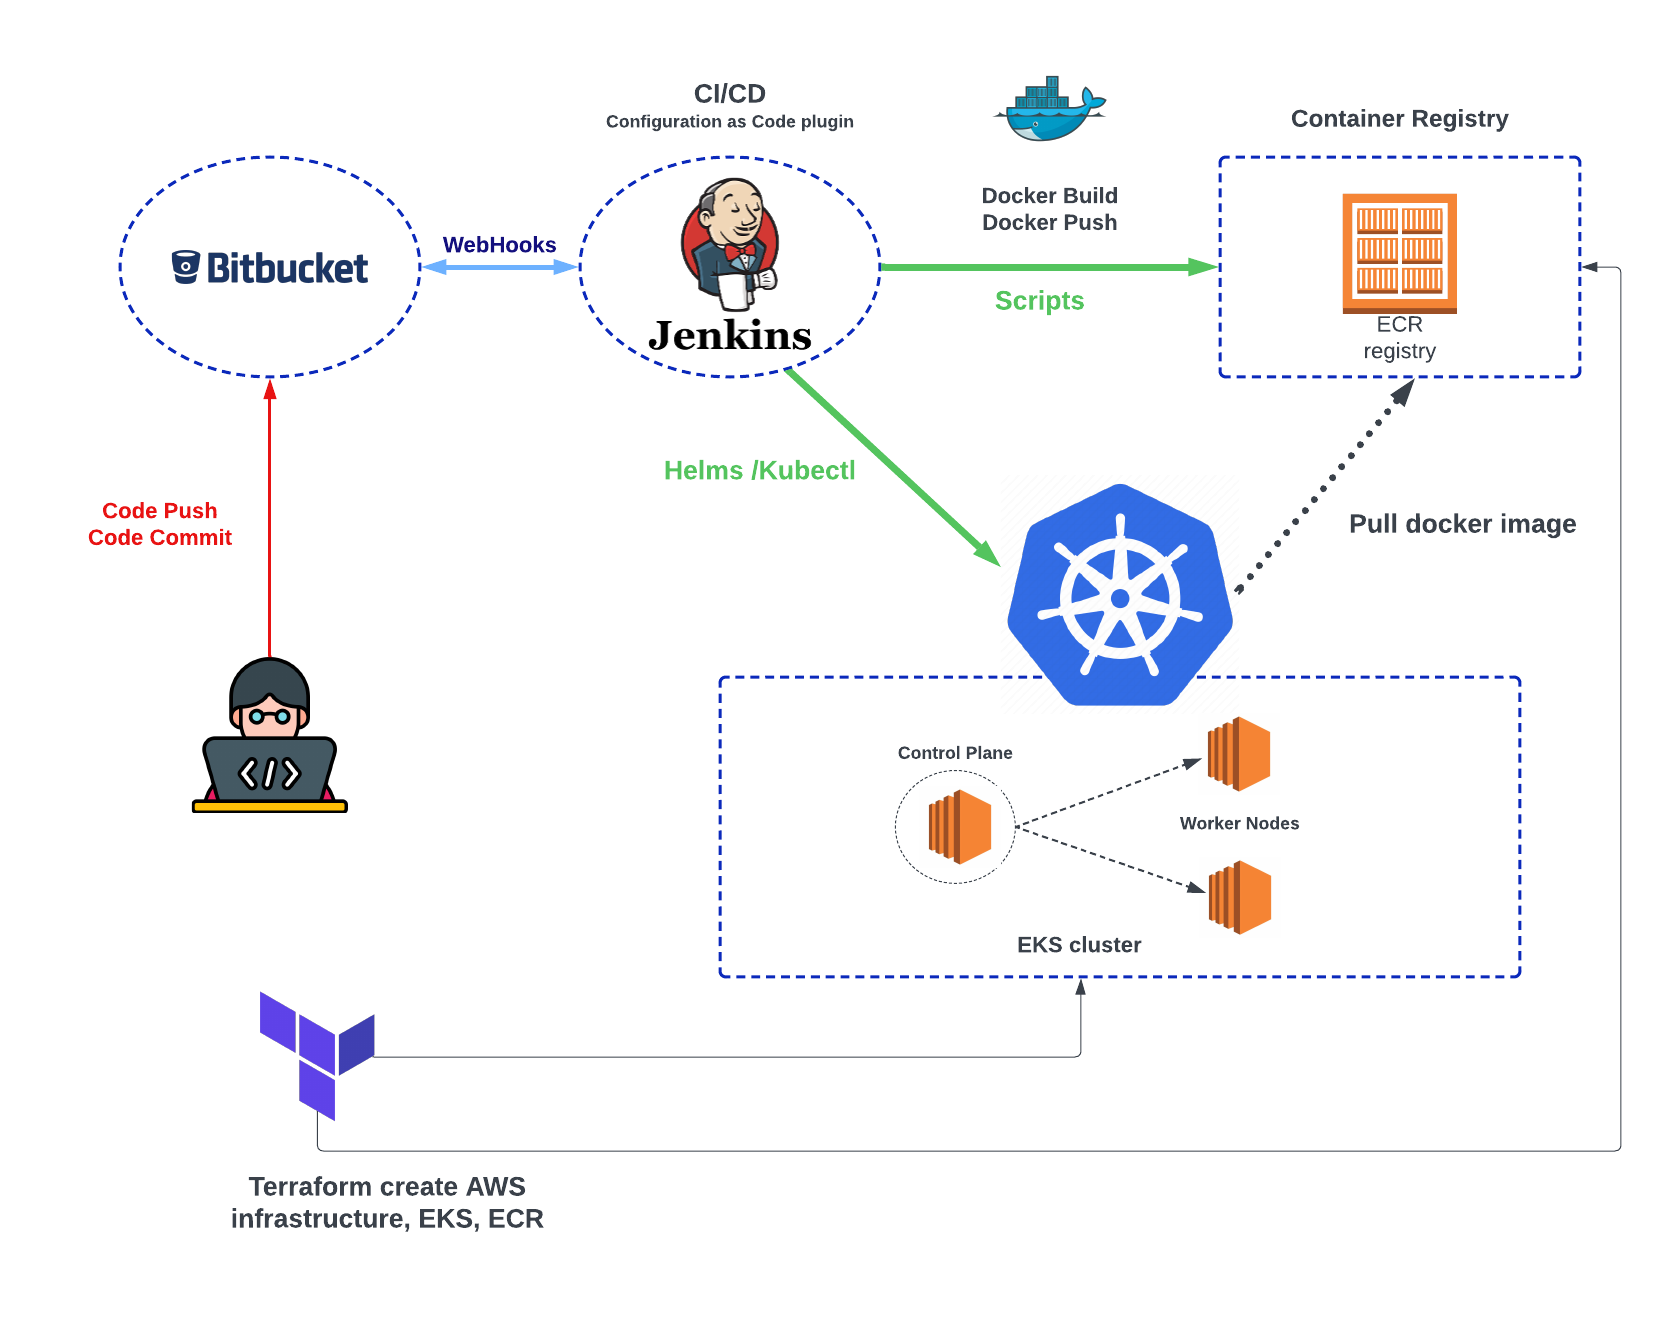
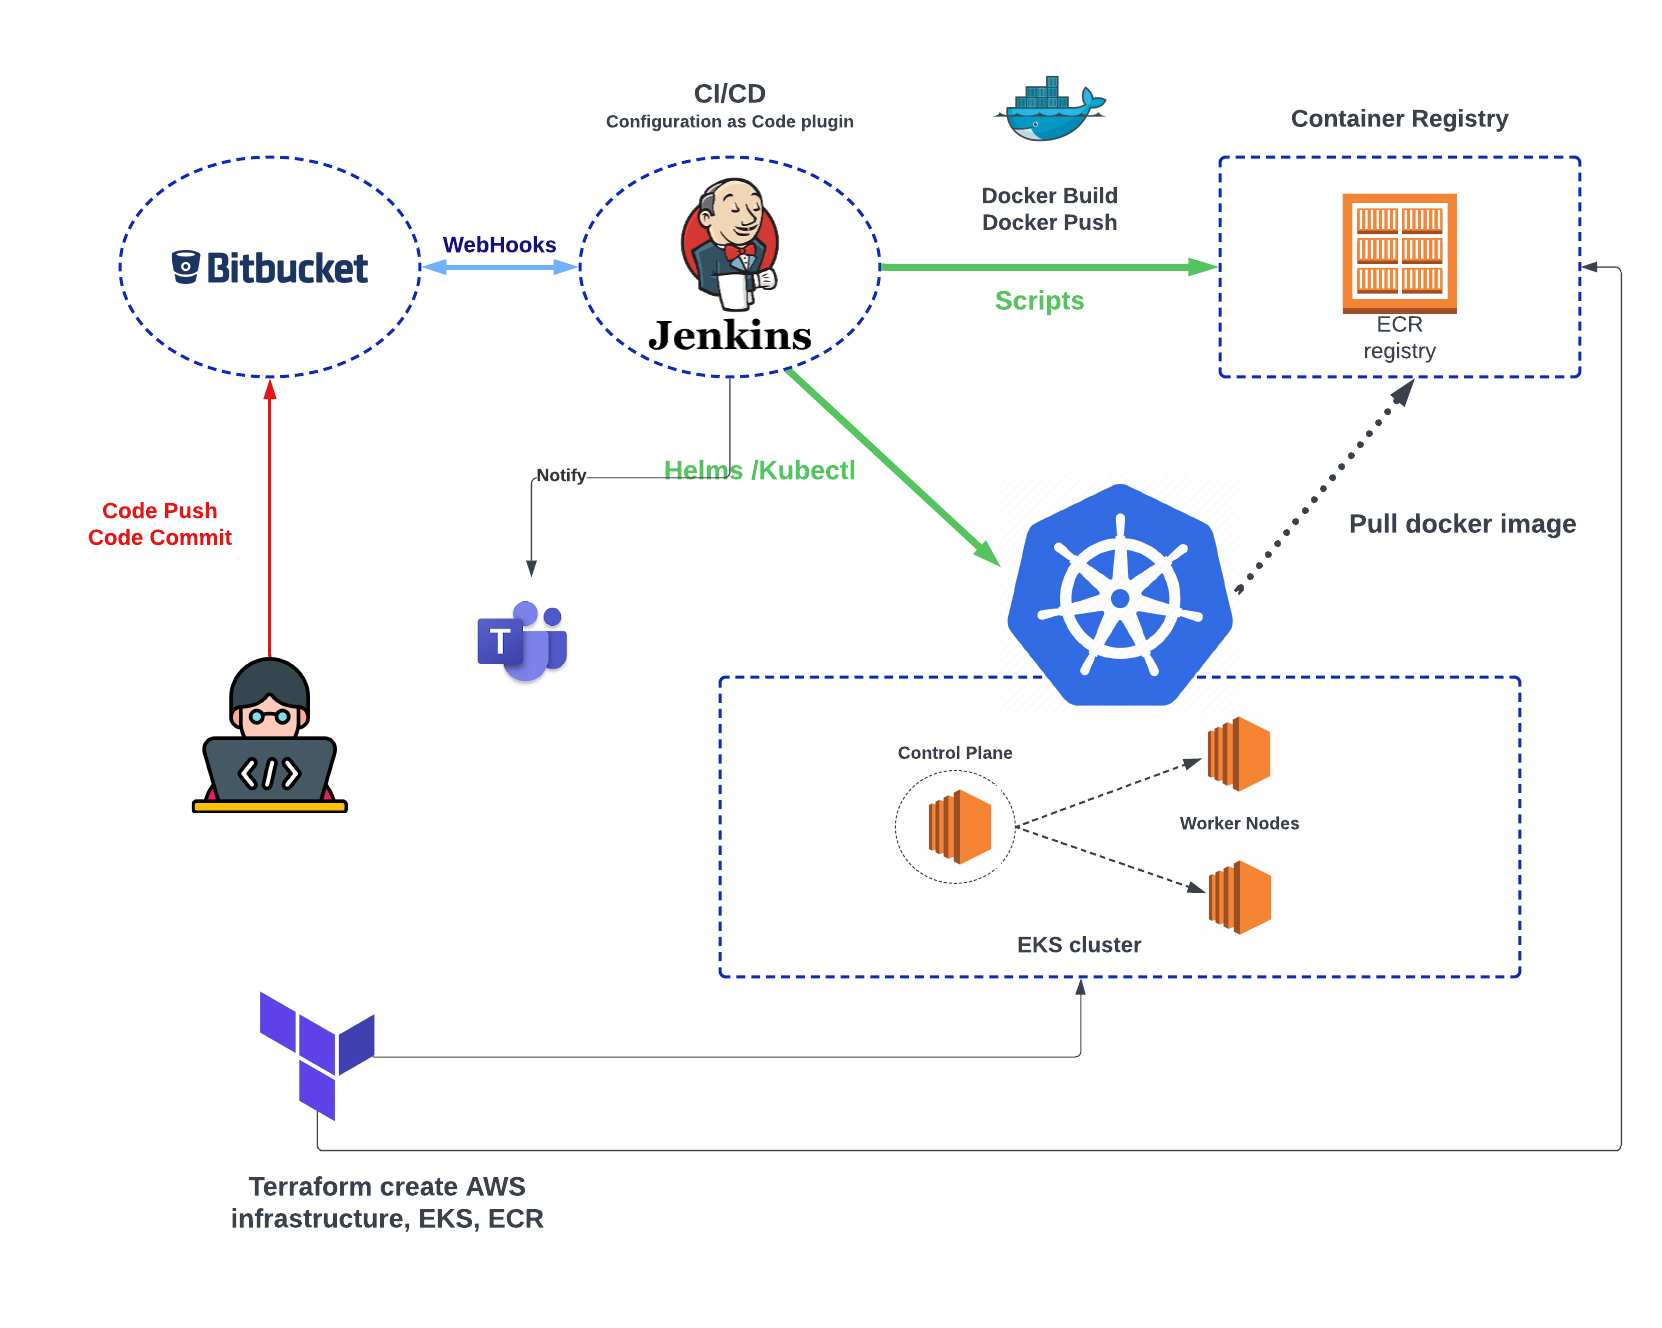
add guideline

Changed region(s): [[0.2762, 0.4322, 0.3375, 0.5248], [0.3069, 0.3396, 0.3682, 0.3705]]

diff --git a/README.md b/README.md
@@ -1,1 +1,44 @@
-elsa-lab
+- I use terraform to create AWS infrastructure such as VPC, EKS, ECR. Please see the image CI_CDPipeline.png to know how the CICD works. We can deploy Banzaicloud Vault to store secret and sensitive information, don't have time so don't do here. 
+- Jenkins use master-slave architecture and configuration as code. Packer build AMIs for Jenkins slave agent.
+- I don't have time to recode the hackathon app so I skip it to deploy.
+- Create 3 repos and store hackerthon, configuration-as-code-jenkins-jobdsl, jenkins-share-libraries on Bitbucket.
+Build infrastructure and deploy guide
+1. Local Environment Setup:
+- Terraform and AWS CLI, git, kustomize
+- Create AWS IAM user and configure AWS on local 
+- Depend on you local setup by yourself
+2. Deploy AWS VPC, EKS and related features.
+- cd Terraform. Run from 0_remote_state -> 1_ecr -> 2_eks. Read readme.md to know how to run Terraform.
+- Run the below command to configure the EKS Cluster
+ aws eks update-kubeconfig --region ap-southeast-1 --name elsa-lab-cluster
+3. Deploy Cert manager and let's enscrypt
+-  cd cert-manager, run the command in the values.yaml file
+- run command to configure, insert the real value before run the command. 
+kubeclt apply -f clusterissuer-cert-wildcard.yaml
+4. Deploy nginx ingress controller
+- cd ingress-nginx, modify the values on the values file.
+- run the command noted on that file
+5. Deploy Jenkins and build AMIs for jenkins agents
+- cd configuration-as-code-jenkins, run command 
+kubectl kustomize secrets
+- run the notes command on the top of file values-elsa-5.1.26.yaml
+- run command to apply rbac
+- cd jenkins-docker-templates run the command on readme.md 
+  kubectl apply -f jenkins-rbac.yml
+- setup Jenkins publics URL, point to the aws loadbalancer, ( get this from nginx service)
+6. Deploy prometheus stack, Loki stack for monitoring metrics and application logging
+cd to prometheus-stack folder and loki-stack foler and run commands that noted in the value files.
+7. Deploy prom-msteams to notify MS teams
+- cd prom-msteams and add the values in real.
+-  run the command noted on value file.
+cd templates and run command below to create secret
+kubectl apply -f secret.yaml
+8. Setup pipeline job
+- Go to Jenkins and run super-seed
+9. Deploy application
+The hackathon foler has docker file in the docker folder, helm chart to deploy application in the helm foler, Jenkins file for the pipeline use to build, push image to ECR and deploy via script store on jenkins-share-libraries.
+It auto trigger the code when developer commit and deploy the apps. We also run it manually.
+Because we don't use Vault to store secret so run the command to create secret for apps env. Create more secret as require for the apps same way.
+kubectl kustomize Secret
+10. Use prometheus and loki promtail to monitor application, systems performance and application logs. Can deploy EFK to store logging.
+

diff --git a/Terraform/2_eks/README.md b/Terraform/2_eks/README.md
@@ -1,0 +1,13 @@
+<!-- BEGIN_TF_DOCS -->
+# Terraform remote state
+
+This module deploys AWS infrastructure to store Terraform remote state in S3 bucket and lock Terraform execution in DynamoDB table.
+
+## Deployment
+
+```sh
+terraform init
+terraform plan -out state.tfplan
+terraform apply state.tfplan
+```
+<!-- END_TF_DOCS -->

diff --git a/jenkins-docker-templates/readme.md b/jenkins-docker-templates/readme.md
@@ -1,0 +1,1 @@
+packer build docker-ami-ap-southeast-1-ubuntu-24.04.json
